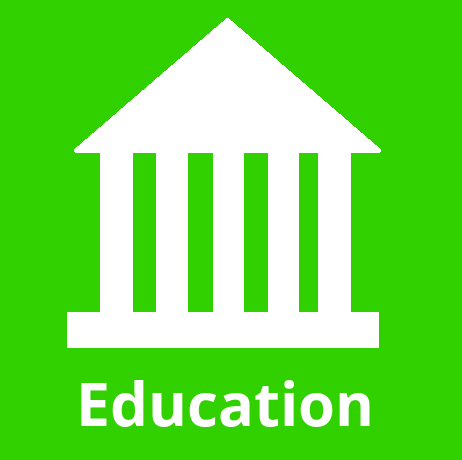
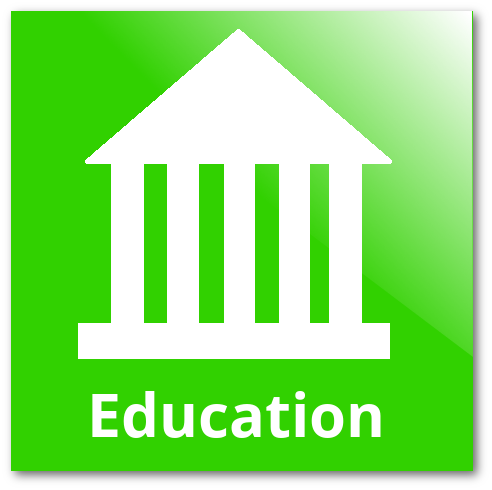
Updated account page [EL] + Shinny Masthead Category pics [EN]

diff --git a/main.css b/main.css
@@ -514,7 +514,7 @@ padding-bottom: 10px;
 }
 
 .back {
-background-image: url("images/other/thss.jpg");
+background-image: url("images/other/thess.png");
     background-size: cover;
 }
 
@@ -1586,7 +1586,7 @@ ul.tabs {
 
 #notification-box {
   position: absolute;
-  z-index: 1;
+  z-index: 0;
     display: none;
     margin: 0 auto;
     width: inherit;
@@ -1594,6 +1594,7 @@ ul.tabs {
     margin-bottom: 50px;
     text-align: left;
     background-color: #ffe8d5;
+    border: 1px solid orange;
 }
 
 .notification .date {
@@ -1684,6 +1685,10 @@ display: inline-block;
   text-align: center;
   padding: 5px;
   color: black;
+}
+
+#orgs-desc {
+  width: 300px;
 }
 
 

diff --git a/el/jq.js b/el/jq.js
@@ -193,12 +193,12 @@ function useHttpResponseVol() {
 function notifications() {
   var box = document.getElementById('notification-box');
 
-  var what = box.style.display; 
+  var what = box.style.display;
   if (what == 'none') {
-    box.style.display = block;
+    box.style.display =" block";
   }
   else {
-    box.style.display = none;
+    box.style.display = "none";
 
   }
 }

diff --git a/el/account.php b/el/account.php
@@ -22,64 +22,109 @@
         <!-- content -->
         <div class="content">
             <h1 class="center-title"></h1>
-            
-            <div class="page-title"> 
-                <div class="main-title"> Ο λογαριασμός μου</div>  
+
+            <div class="page-title">
+                <div class="main-title"> Ο λογαριασμός μου </div>
                 <h4>Πληροφορίες προφίλ</h4>
             </div>
-            
-                <?php 
+
+                <?php
                 mysqli_set_charset($link, "utf8");
-                if(isset($_SESSION['org_id']) || isset($_SESSION['user'])) { 
+                if(isset($_SESSION['org_id']) || isset($_SESSION['user'])) {
                     include '../back-end/find-user.php';
                 ?>
-                
-                
-                <div id="account"> 
-                    
+
+
+                <div id="account">
+
                     <div id="info">
                         <div id="pic">
-                            <img src="<?php if(isset($_SESSION['org_id'])) { echo $row[10]; } else { echo $row[12]; } ?>" width="200" height="200" />
+                            <img src="<?php if(isset($_SESSION['org_id'])) { echo $row[10]; } else { echo $row[12]; } ?>" />
                         </div>
                         <div id="personal-info">
                             <?php if(isset($_SESSION['org_id'])) { ?>
-                                <div class="account-label-in">
-                                    <div class="h3">Όνομα:</div>
-                                    <input class="in" maxlength="50" name="pass" id="log-password" size="25" type="text" value="<?php echo $row[4]; ?>" readonly/>
-                                </div>
-                                <div class="account-label-in">
-                                    <div class="h3">Email:</div>
-                                    <input class="in" maxlength="50" name="pass" id="log-password" size="25" type="text" value="<?php echo $row[2]; ?>" readonly/>
-                                </div>
-                                <div class="account-label-in">
-                                    <div class="h3">  Περιγραφή οργανισμού:</div>
-                                    <textarea id="description" class="for-text-area" cols="40" name="description" maxlength="500" rows="7" readonly><?php echo $row[9]; ?></textarea>
-                                </div>
+                              <table>
+                                <tr>
+                                  <th>Όνομα</th>
+                                  <td><?php echo $row[4]; ?></td>
+                                </tr>
+                                <tr>
+                                  <th>Email</th>
+                                  <td><?php echo $row[2]; ?></td>
+                                </tr>
+                                <tr>
+                                  <th>Περιγραφή</th>
+                                  <td id="orgs-desc"><?php echo $row[9]; ?></td>
+                                </tr>
+                              </table>
+
                             <?php } else if(isset($_SESSION['user'])) { ?>
-                                <div class="account-label-in">
-                                    <div class="h3">Όνομα:</div>
-                                    <input class="in" maxlength="50" name="pass" id="log-password" size="25" type="text" value="<?php echo $row[1]; ?>" readonly/>
-                                </div>
-                                <div class="account-label-in">
-                                    <div class="h3">Επίθετο:</div>
-                                    <input class="in" maxlength="50" name="pass" id="log-password" size="25" type="text" value="<?php echo $row[2]; ?>" readonly/>
-                                </div>
-                                <div class="account-label-in">
-                                    <div class="h3">Email:</div>
-                                    <input class="in" maxlength="50" name="pass" id="log-password" size="25" type="text" value="<?php echo $row[4]; ?>" readonly/>
-                                </div>
-                                <div class="account-label-in">
-                                    <div class="h3">Ημ/νία γέννησης:</div>
-                                    <input class="in" maxlength="50" name="pass" id="log-password" size="25" type="date" value="<?php echo $row[11]; ?>" readonly/>
-                                </div>
+                              <table>
+                                <tr>
+                                  <th>Όνομα</th>
+                                  <td><?php echo $row[1]; ?></td>
+                                </tr>
+                                <tr>
+                                  <th>Επίθετο</th>
+                                  <td><?php echo $row[2]; ?></td>
+                                </tr>
+                                <tr>
+                                  <th>Email</th>
+                                  <td><?php echo $row[4]; ?></td>
+                                </tr>
+                                <tr>
+                                  <th>Ημ/νία γέννησης</th>
+                                  <td><?php echo $row[11]; ?></td>
+                                </tr>
+                              </table>
                             <?php } ?>
 
                         </div>
                         <div class="account-label-in"><a href="edit-account.php">Επεξεργασία προφίλ &raquo;</a></div>
                     </div>
+                    <?php  if(isset($_SESSION['vol_id'])) {  ?>
+                      <h2> Eπιτεύγματα και Πόντοι </h2>
+                      <h5> Δες πια έμβληματα έχεις πάρει πηγαίνοντας το δείκτη πάνω τους! </h5>
+                      <div class="achievements">
+                    <?php
+
+                    include '../back-end/create-link.php';
+
+                    mysqli_set_charset($link, "utf8");
+                    session_start();
+
+                       $user = $_SESSION['user'];
+                       $query = "SELECT achievments.text, achievments.badge FROM achievments,earnedachievements,user WHERE achievments.id = earnedachievements.achiev_id AND earnedachievements.user_id = user.id AND user.username = '$user'";
+
+
+                   $results = mysqli_query($link,$query);
+                   $row = mysqli_fetch_row($results);
+
+                   @mysqli_close($link);
+                    while ($row = mysqli_fetch_row($results)) {
+
+                    ?>
+
+                      <div class="achievement">
+                        <div class="badge" style="background-image: url('../images/badges/<?php echo $row[1]; ?>')" title="<?php echo $row[0]?>">
+
+                        </div>
+                        <!-- <div class="badge-text">
+                            <?php echo $row[0]; ?>
+                        </div> -->
+                      </div>
+
+
+
+                    <?php } ?>
+                     <div id="points">Έχεις συγκεντρώσει 75 πόντους!</div>
+                     </div>
+                     <?php } ?>
 
                     <h2>Ειδοποιήσεις</h2>
-                    <div class="notification-box"> 
+                     <div class=notification-button onclick="notifications()"></div>
+
+                    <div id="notification-box">
                         <?php
 
                         include '../back-end/create-link.php';
@@ -94,38 +139,39 @@
                             $role = 1;
                         }
 
-                        $query = "SELECT notifications.date, messages.text ,notifications.id,events.title,events.id FROM notifications, messages, events WHERE notifications.user_id='$id' AND notifications.role='$role' AND notifications.not_id = messages.id AND notifications.event_id = events.id ORDER BY notifications.id DESC";
-                         $results = mysqli_query($link,$query);   
-                        while ($row = mysqli_fetch_row($results)) { 
-                        
+                        $query = "SELECT notifications.date, messages.text ,notifications.id,events.title,events.id FROM notifications, messages, events WHERE notifications.user_id='$id' AND notifications.role='$role' AND notifications.not_id = messages.id AND notifications.event_id = events.id ORDER BY notifications.id DESC LIMIT 5";
+                         $results = mysqli_query($link,$query);
+                        while ($row = mysqli_fetch_row($results)) {
+
                         ?>
 
-                            <div class="notification"> 
+                            <div class="notification">
                                 <div class="image"> </div>
                                 <div class="message">
                                     <?php echo $row[1]; ?>
-                                </div> 
+                                </div>
                                 <?php if($row[4] != 0)  {?>
                                 <div class="event-link">Σελίδα δράσης: <a href="event.php?id=<?php echo $row[4]; ?>"> <?php echo $row[3]; ?></a> </div>
                                 <?php } ?>
                                 <div class="date">
                                     <?php echo $row[0]; ?>
-                                </div> 
+                                </div>
                             </div>
 
                            <?php } ?>
+                           <a id="see-all" href=""> Όλες οι ειδοποιήσεις </a>
                     </div>
 
                     <?php if(!isset($_SESSION['org_id'])) { ?>
-                        <div id="points">Συνολικοί πόντοι: 75</div>
+
                     <?php } ?>
-                    
+
                     <div id="history">
 
                         <div id="tabbed_box_1" class="tabbed_box">
 
                             <?php if(isset($_SESSION['org_id'])) { ?>
-                            <h2>Ιστορικό εθελοντικών δράσεων οργανισμού</h2>
+                            <h2>Ιστορικό δράσεων οργανισμού</h2>
                             <div class="tabbed_area">
 
                                 <ul class="tabs">
@@ -178,20 +224,20 @@
                         </div>
 
                     </div>
-                    
-                        
+
+
                 </div>
                 <?php } ?>
-                    
-                
+
+
                 <div id="account-blanket">
-                
+
                 </div>
-                
+
             </div>
-            
+
             <!-- footer -->
             <?php include 'footer.php'; ?>
-            
+
     </body>
 </html>

diff --git a/en/account.php b/en/account.php
@@ -43,18 +43,21 @@
                         </div>
                         <div id="personal-info">
                             <?php if(isset($_SESSION['org_id'])) { ?>
-                                <div class="account-label-in">
-                                    <div class="h3">Name:</div>
-                                    <input class="in" maxlength="50" name="pass" id="log-password" size="25" type="text" value="<?php echo $row[4]; ?>" readonly/>
-                                </div>
-                                <div class="account-label-in">
-                                    <div class="h3">Email:</div>
-                                    <input class="in" maxlength="50" name="pass" id="log-password" size="25" type="text" value="<?php echo $row[2]; ?>" readonly/>
-                                </div>
-                                <div class="account-label-in">
-                                    <div class="h3">  Organization's description:</div>
-                                    <textarea id="description" class="for-text-area" cols="40" name="description" maxlength="500" rows="7" readonly><?php echo $row[9]; ?></textarea>
-                                </div>
+                              <table>
+                                <tr>
+                                  <th>Name</th>
+                                  <td><?php echo $row[4]; ?></td>
+                                </tr>
+                                <tr>
+                                  <th>Email</th>
+                                  <td><?php echo $row[2]; ?></td>
+                                </tr>
+                                <tr>
+                                  <th>Description</th>
+                                  <td id="orgs-desc"><?php echo $row[9]; ?></td>
+                                </tr>
+                              </table>
+
                             <?php } else if(isset($_SESSION['user'])) { ?>
                               <table>
                                 <tr>
@@ -79,9 +82,9 @@
                         </div>
                         <div class="account-label-in"><a href="edit-account.php">Edit profile &raquo;</a></div>
                     </div>
-
+                    <?php  if(isset($_SESSION['vol_id'])) {  ?>
                       <h2> Achievements and Points </h2>
-                      <h5> Hover to see which ones you got! </h5>
+                      <h5> Mouse over the badges to see which ones you got! </h5>
                       <div class="achievements">
                     <?php
 
@@ -89,10 +92,10 @@
 
                     mysqli_set_charset($link, "utf8");
                     session_start();
-                    if(isset($_SESSION['user'])) {
+
                        $user = $_SESSION['user'];
                        $query = "SELECT achievments.text, achievments.badge FROM achievments,earnedachievements,user WHERE achievments.id = earnedachievements.achiev_id AND earnedachievements.user_id = user.id AND user.username = '$user'";
-                   }
+
 
                    $results = mysqli_query($link,$query);
                    $row = mysqli_fetch_row($results);
@@ -101,8 +104,6 @@
                     while ($row = mysqli_fetch_row($results)) {
 
                     ?>
-
-
 
                       <div class="achievement">
                         <div class="badge" style="background-image: url('../images/badges/<?php echo $row[1]; ?>')" title="<?php echo $row[0]?>">
@@ -117,8 +118,11 @@
 
                     <?php } ?>
                      <div id="points">You have earned 75 points!</div>
-</div>
-                    <h2>Notifications</h2>                       <div class=notification-button onclick="notifications()"></div>
+                     </div>
+                     <?php } ?>
+
+                    <h2>Notifications</h2>
+                     <div class=notification-button onclick="notifications()"></div>
 
                     <div id="notification-box">
                         <?php
